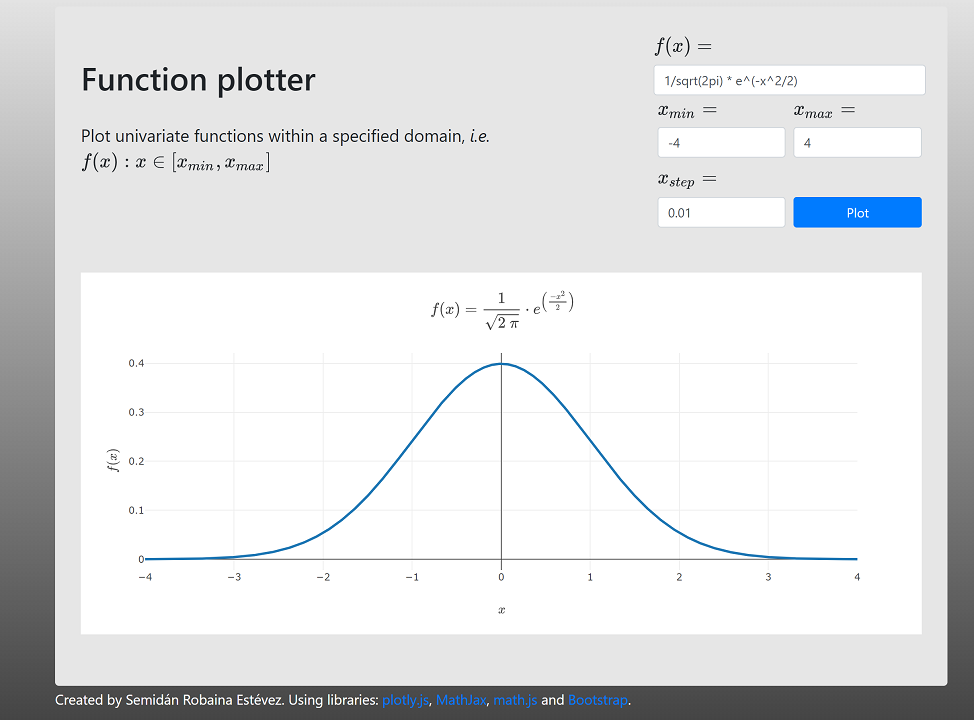
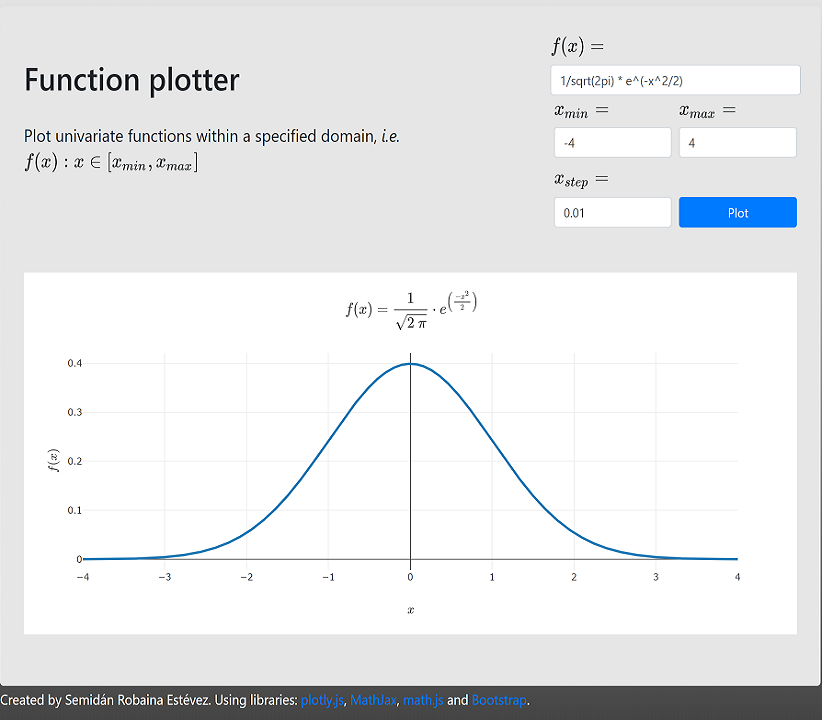
margins

diff --git a/index.html b/index.html
@@ -23,51 +23,51 @@
 	  </h1>
 
 		<div class="grid_container">
-			<div class="grid_item">
+			<div class="grid_item" tabindex="0">
 				<h1 class="grid_item_title">The Pentagram of Venus</h1>
-				<img src="assets/pentagram.png" alt="Responsive image">
+				<img class="thumbnail" src="assets/pentagram.png" alt="Responsive image">
 				<button class="button deployButton" type="button"><a href="https://robaina.github.io/VenusPentagram/">Deploy</a></button>
 				<button class="button codeButton" type="button"><a href="https://github.com/Robaina/VenusPentagram">Code</a></button>
 			</div>
-			<div class="grid_item">
+			<div class="grid_item" tabindex="0">
 				<h1 class="grid_item_title">Sudoku solver</h1>
-				<img src="assets/sudoku.png" alt="Responsive image">
+				<img class="thumbnail" src="assets/sudoku.png" alt="Responsive image">
 				<button class="button deployButton" type="button"><a href="https://robaina.github.io/Sudoku/">Deploy</a></button>
 				<button class="button codeButton" type="button"><a href="https://github.com/Robaina/Sudoku">Code</a></button>
 			</div>
-			<div class="grid_item">
+			<div class="grid_item" tabindex="0">
 				<h1 class="grid_item_title">Metabolic flux orders</h1>
-				<img src="assets/fluxorders.png" alt="Responsive image">
+				<img class="thumbnail" src="assets/fluxorders.png" alt="Responsive image">
 				<button class="button deployButton" type="button"><a href="https://robaina.github.io/fluxOrders/">Deploy</a></button>
 				<button class="button codeButton" type="button"><a href="https://github.com/Robaina/fluxOrders">Code</a></button>
 			</div>
-			<div class="grid_item">
+			<div class="grid_item" tabindex="0">
 				<h1 class="grid_item_title">Ayumu's game</h1>
-				<img src="assets/ayumu.png" alt="Responsive image">
+				<img class="thumbnail" src="assets/ayumu.png" alt="Responsive image">
 				<button class="button deployButton" type="button"><a href="https://robaina.github.io/AyumuGame/">Deploy</a></button>
 				<button class="button codeButton" type="button"><a href="https://github.com/Robaina/AyumuGame">Code</a></button>
 			</div>
-			<div class="grid_item">
+			<div class="grid_item" tabindex="0">
 				<h1 class="grid_item_title">Simon game</h1>
-				<img src="assets/simon.png" alt="Responsive image">
+				<img class="thumbnail" src="assets/simon.png" alt="Responsive image">
 				<button class="button deployButton" type="button"><a href="https://robaina.github.io/SimonGame/">Deploy</a></button>
 				<button class="button codeButton" type="button"><a href="https://github.com/Robaina/SimonGame">Code</a></button>
 			</div>
-			<div class="grid_item">
+			<div class="grid_item" tabindex="0">
 				<h1 class="grid_item_title">Colorful N-Mobius</h1>
-				<img src="assets/mobiusart.png" alt="Responsive image">
+				<img class="thumbnail" src="assets/mobiusart.png" alt="Responsive image">
 				<button class="button deployButton" type="button"><a href="https://robaina.github.io/mobiusArt/">Deploy</a></button>
 				<button class="button codeButton" type="button"><a href="https://github.com/Robaina/mobiusArt">Code</a></button>
 			</div>
-			<div class="grid_item">
+			<div class="grid_item" tabindex="0">
 				<h1 class="grid_item_title">Oblate Spheroidal Coordinates</h1>
-				<img src="assets/oblatespheroidal.png" alt="Responsive image">
+				<img class="thumbnail" src="assets/oblatespheroidal.png" alt="Responsive image">
 				<button class="button deployButton" type="button"><a href="https://robaina.github.io/OblateSpheroidal/">Deploy</a></button>
 				<button class="button codeButton" type="button"><a href="https://github.com/Robaina/OblateSpheroidal">Code</a></button>
 			</div>
-			<div class="grid_item">
+			<div class="grid_item" tabindex="0">
 				<h1 class="grid_item_title">Function plotter</h1>
-				<img src="assets/functionplotter.png" alt="Responsive image">
+				<img class="thumbnail" src="assets/functionplotter.png" alt="Responsive image">
 				<button class="button deployButton" type="button"><a href="https://robaina.github.io/functionPlotter/">Deploy</a></button>
 				<button class="button codeButton" type="button"><a href="https://github.com/Robaina/functionPlotter">Code</a></button>
 			</div>

diff --git a/styles.css b/styles.css
@@ -1,9 +1,10 @@
 body {
   --body_color: rgb(0, 0, 0);
   --fancy_color: rgb(252, 226, 20);
-  --grid_margin: calc(8 * var(--grid_border_width));
-  --grid_width: 60vw;
-  --grid_border_width: calc(0.003 * var(--grid_width));
+  --grid_width: 70vw;
+  --grid_item_margin: calc(0.05 * var(--grid_width));
+  --grid_item_border_width: calc(0.01 * var(--grid_width));
+  --grid_item_width: calc(0.5 * (var(--grid_width) - 4 * (var(--grid_item_border_width) + var(--grid_item_margin))));
   --fontColor: rgb(251, 251, 251);
   background-color: var(--body_color);
   margin: 0;
@@ -29,36 +30,48 @@ a {
 .grid_container {
   display: grid;
   grid-template-columns: auto auto;
-  width: calc(var(--grid_width) + 4*calc(2 * var(--grid_border_width)));
+  width: var(--grid_width);
   margin-right: 0;
   margin-left: calc((100vw - var(--grid_width)) / 2);
   /* border: var(--grid_border_width) solid var(--fancy_color); */
 }
 .grid_item {
-  width: calc(0.5 * (var(--grid_width) - 4 * var(--grid_border_width)));
+  width: var(--grid_item_width);
   height: auto;
-  border: var(--grid_border_width) solid var(--fancy_color);
-  margin: var(--grid_margin);
+  border: var(--grid_item_border_width) solid rgb(121, 121, 121);
+  margin: var(--grid_item_margin);
   /* display: flex; */
+}
+.grid_item:hover{
+  /* --grid_item_border_width: calc(1.2 * var(--grid_item_border_width)); */
+  border: calc(var(--grid_item_border_width)) solid var(--fancy_color);
+  cursor: pointer;
+
 }
 .grid_item_title {
   text-align: center;
-  font-size: calc(0.05 * var(--grid_width));
+  font-size: auto;/*calc(0.05 * var(--grid_width));*/
+  max-height: 10%;
+}
+.thumbnail {
+  width: calc(0.8 * var(--grid_item_width));
+  margin-left: calc(0.1 * var(--grid_item_width));
 }
 .button {
-  font-size: calc(0.04 * var(--grid_width));
-  margin-top: calc(0.01 * var(--grid_width));
+  font-size: calc(0.065 * var(--grid_item_width));
+  margin-top: calc(0.05 * var(--grid_item_width));
+  margin-bottom: calc(0.06 * var(--grid_item_width));
   background-color: var(--body_color);
   border-color: var(--fancy_color);
 }
 .button:hover {
   background-color: var(--fancy_color);
 }
-.codeButton {
-  margin-left: calc(0.03 * var(--grid_width));
-}
 .deployButton {
-  margin-left: calc(0.15 * var(--grid_width));
+  margin-left: calc(0.1 * var(--grid_item_width));
+}
+.codeButton {
+  margin-left: calc(0.35 * var(--grid_item_width));
 }
 
 ::-webkit-scrollbar {
